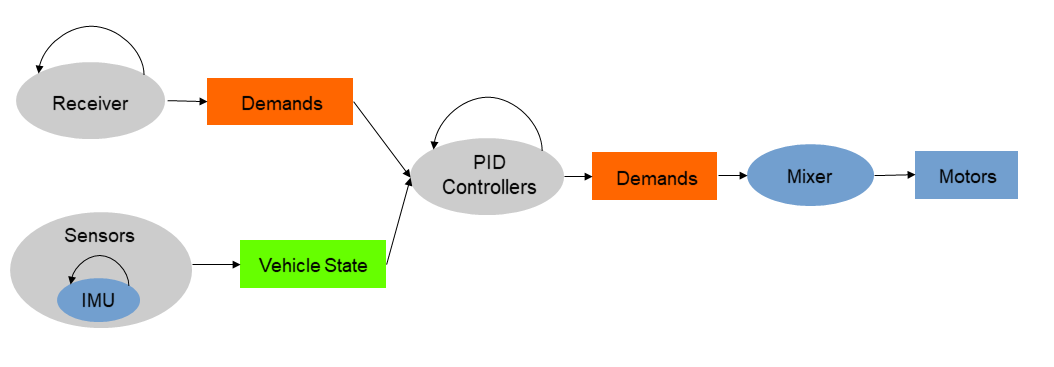
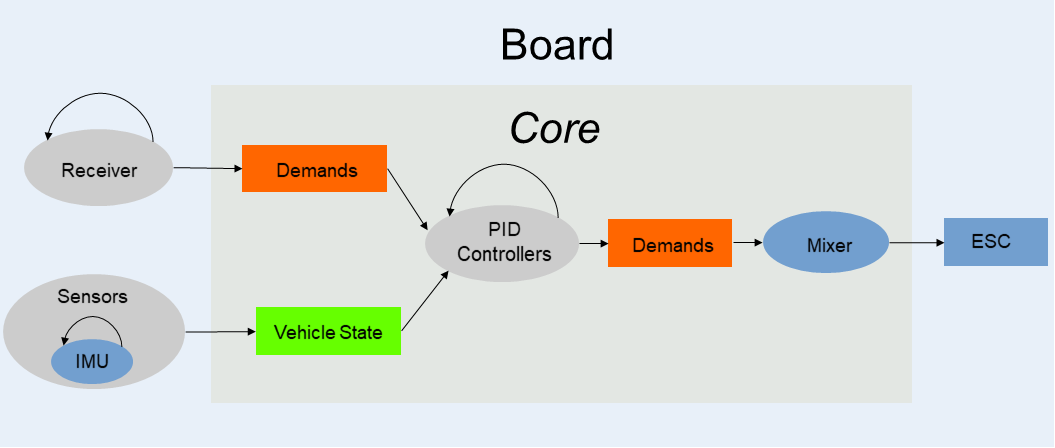
=More README

diff --git a/README.md b/README.md
@@ -47,7 +47,7 @@ represent the need for functions that have state (instance variables); for
 example, the maintenance of an error integral in a PID controller:
 
 <p align="center"> 
-<img src="media/dataflow.png" width=700>
+<img src="media/dataflow2.png" width=700>
 </p>
 
 By using header-only C++ classes whenever possible, and avoiding C-style macros and
